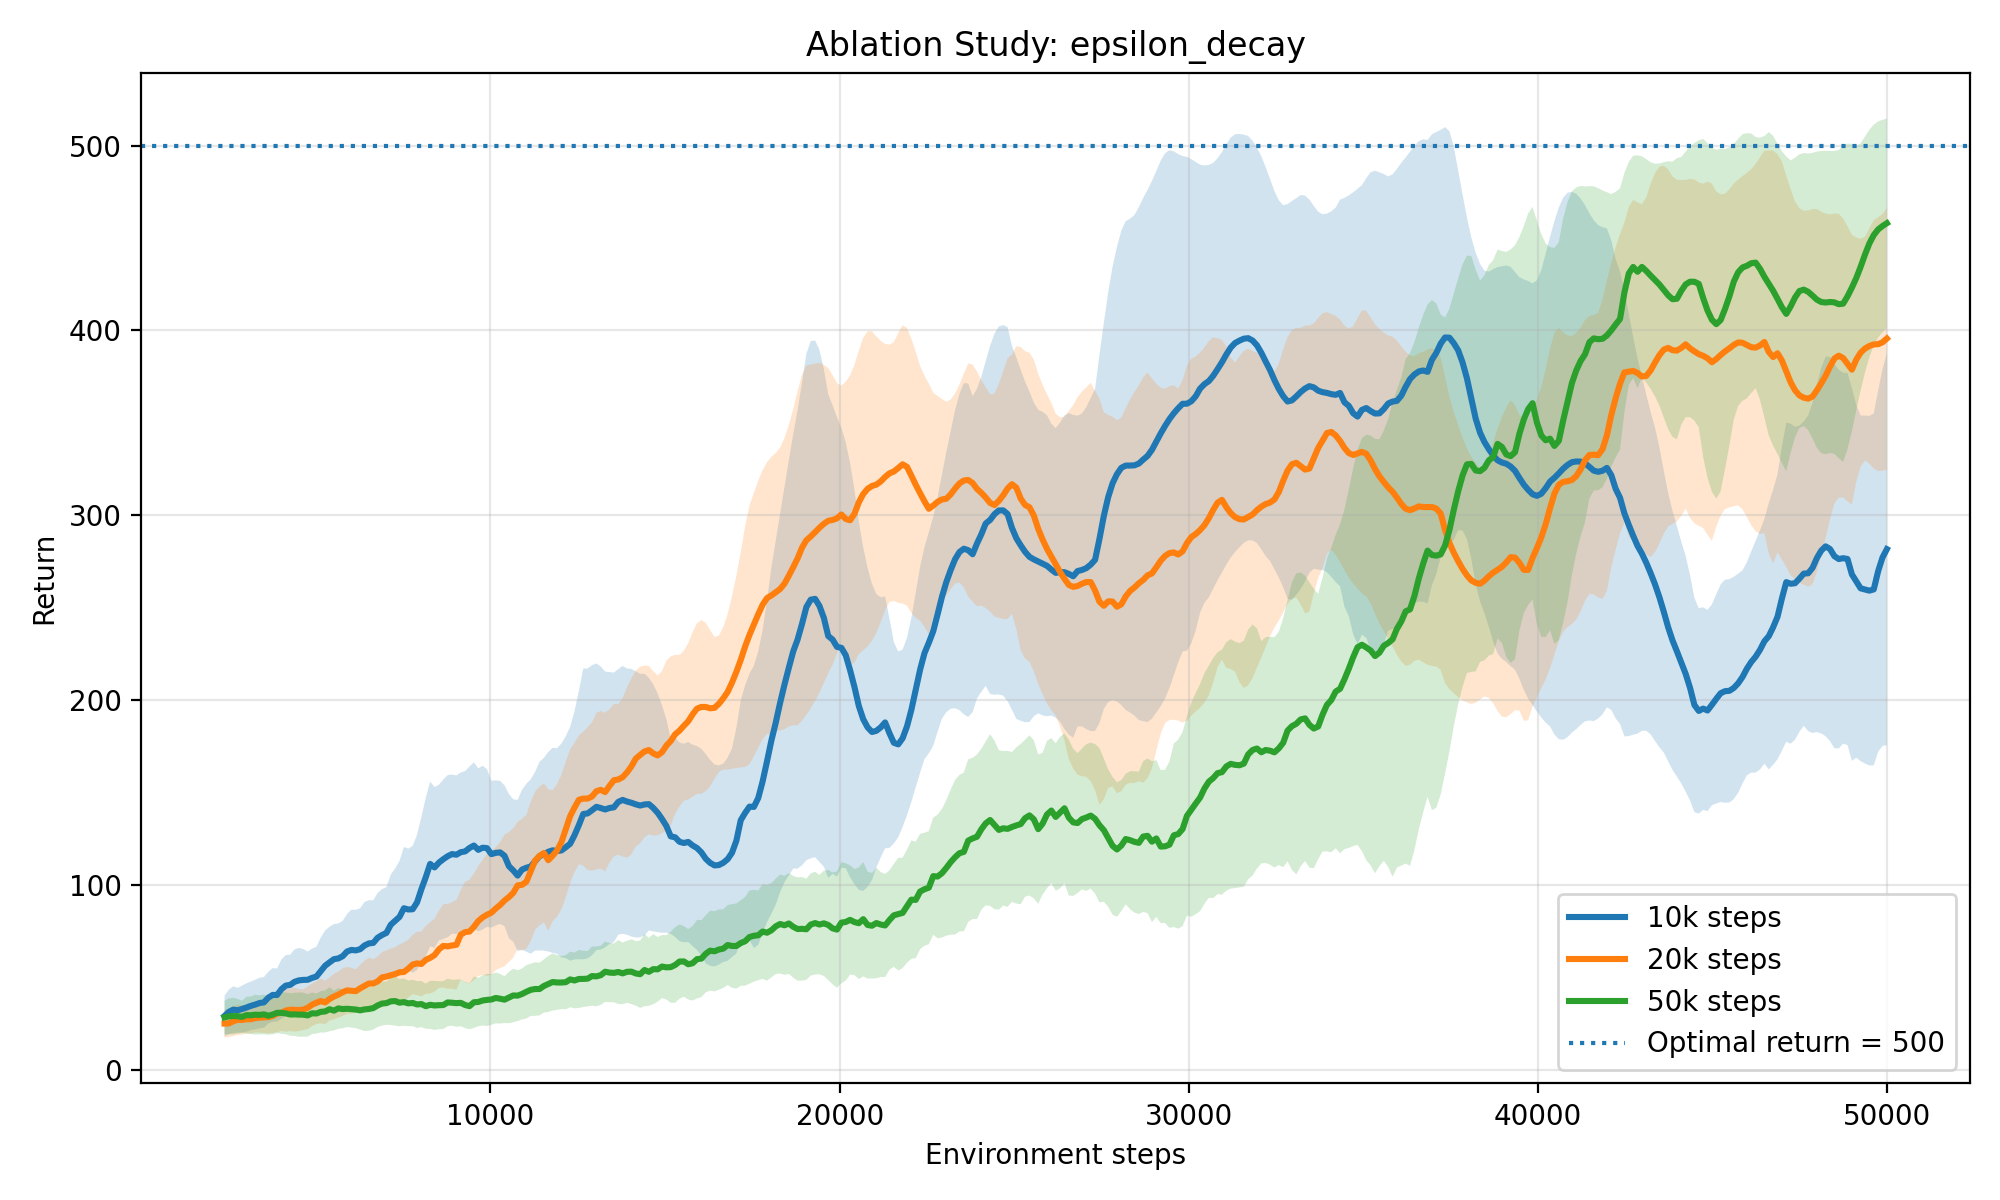
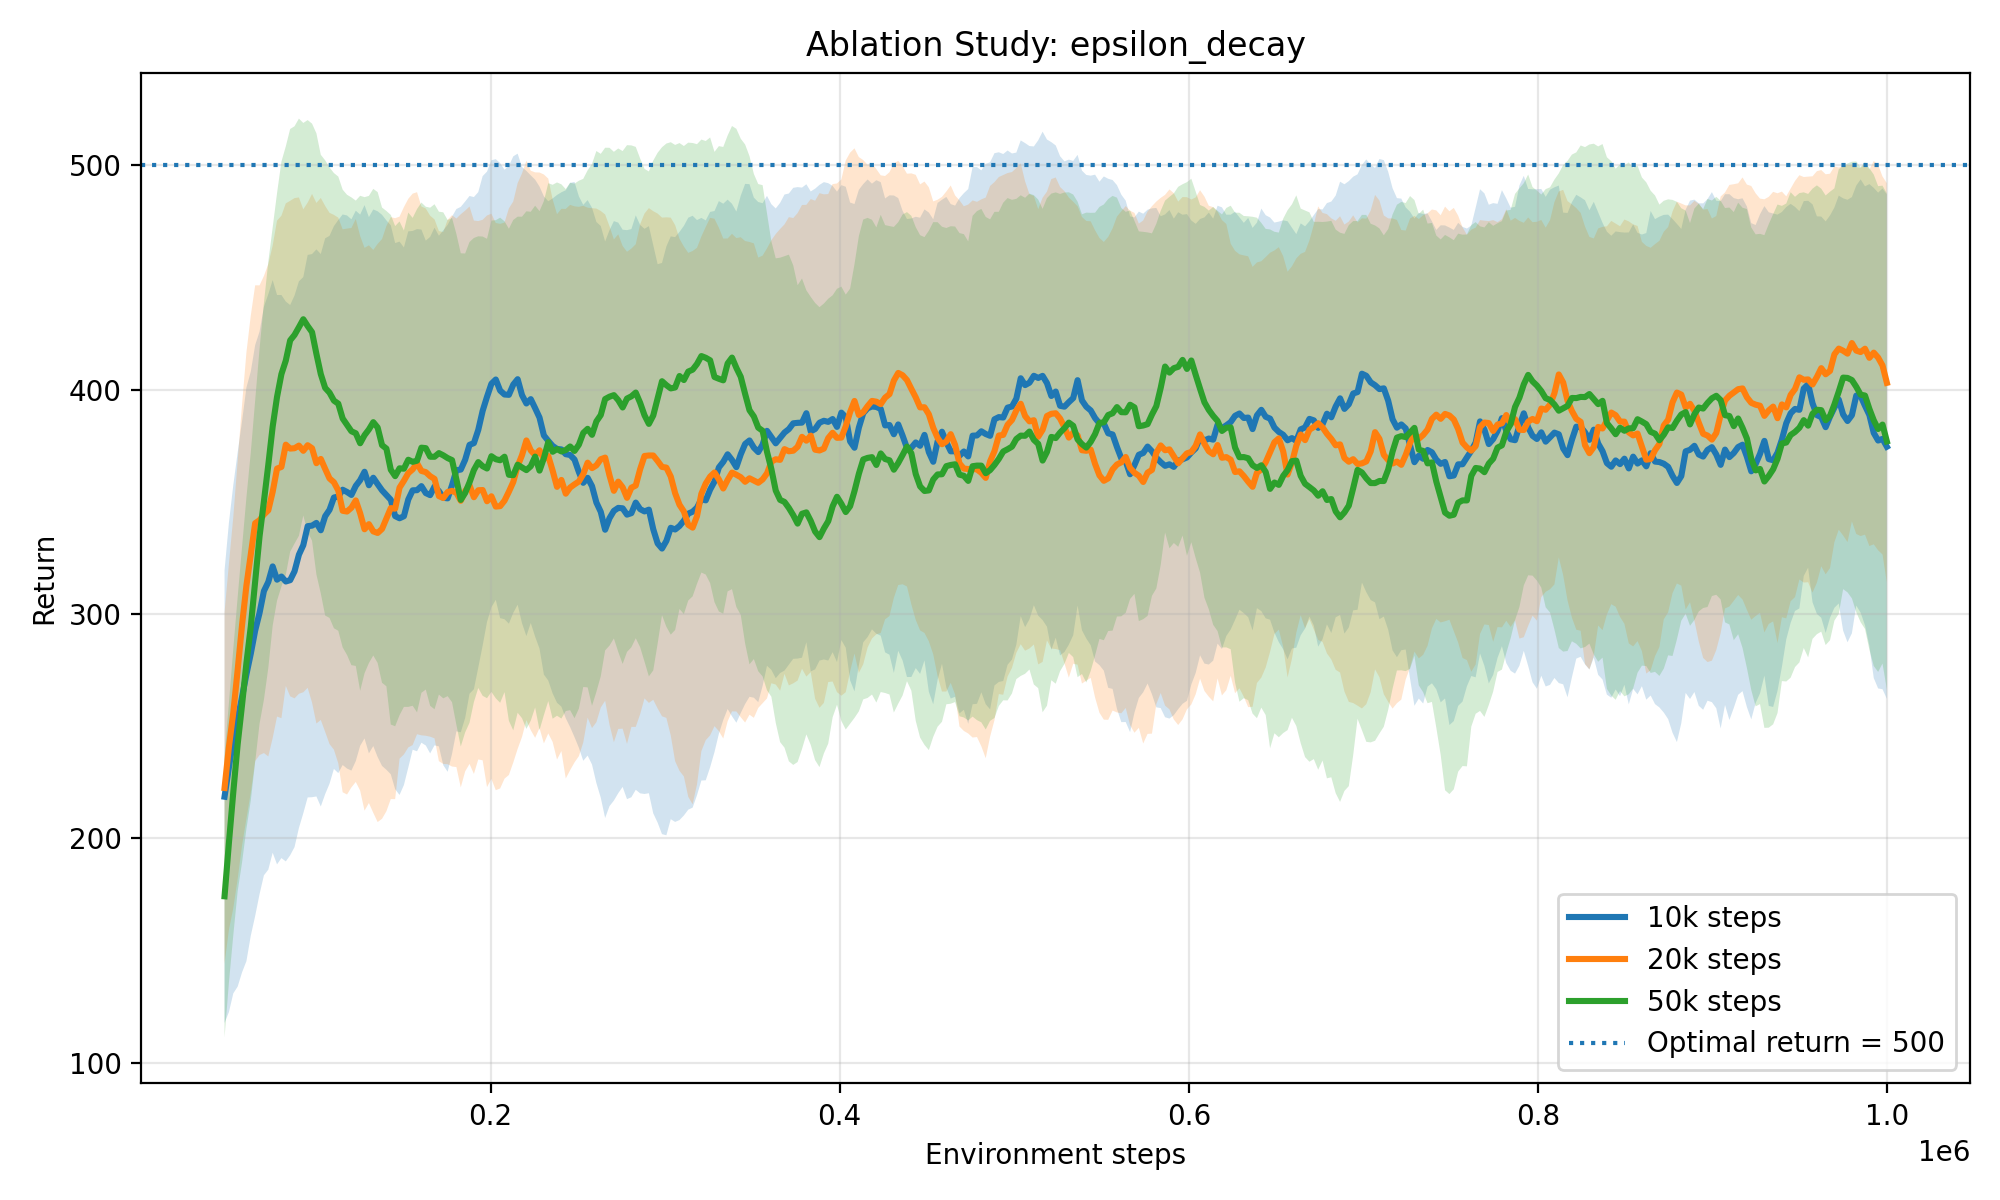
new results

diff --git a/compare_dqn_variants_u.py b/compare_dqn_variants_u.py
@@ -1,0 +1,176 @@
+import copy
+import csv
+import os
+from dataclasses import replace
+
+import matplotlib
+matplotlib.use("Agg")
+import matplotlib.pyplot as plt
+import numpy as np
+import pandas as pd 
+
+from Q_learning_target_replay import Config, train, moving_average
+
+
+def run_multiple_seeds(cfg: Config, num_seeds=5):
+    runs = []
+    for i in range(num_seeds):
+        cfg_i = copy.deepcopy(cfg)
+        cfg_i.seed = cfg.seed + i
+        return_steps, returns, losses = train(cfg_i)
+        runs.append({"return_steps": return_steps, "returns": returns, "losses": losses})
+    return runs
+
+
+def interpolate_runs(runs, total_env_steps, num_points=400):
+    x_grid = np.linspace(1, total_env_steps, num_points)
+    y_interp_runs = []
+    for run in runs:
+        x = run["return_steps"]
+        y = run["returns"]
+        if len(x) == 0:
+            continue
+        y_interp_runs.append(np.interp(x_grid, x, y))
+    if not y_interp_runs:
+        return x_grid, np.zeros_like(x_grid), np.zeros_like(x_grid)
+    y_interp_runs = np.asarray(y_interp_runs)
+    return x_grid, y_interp_runs.mean(axis=0), y_interp_runs.std(axis=0)
+
+
+def plot_variant_comparison(curves, cfg: Config, save_path="results_variants/dqn_variant_comparison.png", smoothing_window=20):
+    os.makedirs(os.path.dirname(save_path) or ".", exist_ok=True)
+    plt.figure(figsize=(10, 6))
+    for label, runs in curves.items():
+        x, mean, std = interpolate_runs(runs, cfg.total_env_steps)
+        if len(mean) >= smoothing_window:
+            mean = moving_average(mean, smoothing_window)
+            std = moving_average(std, smoothing_window)
+            x = x[smoothing_window - 1:]
+        plt.plot(x, mean, linewidth=2.2, label=label)
+        plt.fill_between(x, mean - std, mean + std, alpha=0.2)
+
+    plt.axhline(500, linestyle=":", linewidth=1.5, label="Optimal return = 500")
+    plt.xlabel("Environment steps")
+    plt.ylabel("Return")
+    plt.title("CartPole: Naive vs TN vs ER vs TN + ER")
+    plt.grid(True, alpha=0.3)
+    plt.legend()
+    plt.tight_layout()
+    plt.savefig(save_path, dpi=200)
+    plt.close()
+    print(f"Saved plot to {save_path}")
+
+
+def summarize_runs(runs):
+    final_returns = [run["returns"][-20:].mean() if len(run["returns"]) >= 20 else run["returns"].mean() for run in runs]
+    return float(np.mean(final_returns)), float(np.std(final_returns))
+
+
+def run_variant_study(base_cfg: Config, num_seeds=5, smoothing_window=20, output_dir="results_variants"):
+    os.makedirs(output_dir, exist_ok=True)
+    variants = {
+        "Naive": replace(base_cfg, use_target_network=False, use_replay_buffer=False),
+        "Only TN": replace(base_cfg, use_target_network=True, use_replay_buffer=False),
+        "Only ER": replace(base_cfg, use_target_network=False, use_replay_buffer=True),
+        "TN + ER": replace(base_cfg, use_target_network=True, use_replay_buffer=True),
+    }
+
+    curves = {}
+    summary_rows = []
+    for label, cfg_variant in variants.items():
+        print(f"\n{'=' * 70}\nRunning variant: {label}\n{'=' * 70}")
+        runs = run_multiple_seeds(cfg_variant, num_seeds=num_seeds)
+        curves[label] = runs
+        mean_final, std_final = summarize_runs(runs)
+        print(f"Final-20 mean across seeds: {mean_final:.2f} ± {std_final:.2f}")
+        summary_rows.append({"variant": label, "mean_final_20": mean_final, "std_final_20": std_final})
+
+    plot_variant_comparison(curves, base_cfg, save_path=os.path.join(output_dir, "dqn_variant_comparison.png"), smoothing_window=smoothing_window)
+
+    summary_path = os.path.join(output_dir, "variant_summary.csv")
+    with open(summary_path, "w", newline="") as f:
+        writer = csv.DictWriter(f, fieldnames=["variant", "mean_final_20", "std_final_20"])
+        writer.writeheader()
+        writer.writerows(summary_rows)
+    print(f"Saved variant summary to {summary_path}")
+
+
+def load_best_config_from_ablation(
+    ablation_csv: str = "results_ablation/ablation_summary.csv",
+) -> dict:
+    """
+    Read the ablation summary CSV produced by ablation_study.py and return
+    the best (highest mean_final_20) hyperparameter value for each study.
+    Falls back to sensible defaults if the file is missing.
+    """
+    defaults = {
+        "learning_rate": 1e-3,
+        "hidden_sizes": (128, 128),
+        "epsilon_decay_steps": 50_000,
+        "updates_per_step": 1.0,
+    }
+
+    if not os.path.exists(ablation_csv):
+        print(
+            f"[WARNING] Ablation CSV not found at '{ablation_csv}'. "
+            "Using default hyperparameters. Run ablation_study.py first for best results."
+        )
+        return defaults
+
+    df = pd.read_csv(ablation_csv)
+    best = {}
+
+    study_map = {
+        "learning_rate": ("learning_rate", float),
+        "network_size": ("hidden_sizes", None),   # special handling below
+        "exploration_factor": ("epsilon_decay_steps", int),
+        "update_to_data_ratio": ("updates_per_step", float),
+    }
+
+    for study, (param, cast) in study_map.items():
+        rows = df[df["study"] == study]
+        if rows.empty:
+            best[param] = defaults[param]
+            continue
+        best_row = rows.loc[rows["mean_final_20"].idxmax()]
+        variant_label = best_row["variant"]
+
+        if study == "learning_rate":
+            # label format: "lr = 1e-3"
+            best[param] = float(variant_label.split("=")[1].strip())
+        elif study == "network_size":
+            # label format: "128, 128"
+            sizes = tuple(int(x.strip()) for x in variant_label.split(","))
+            best["hidden_sizes"] = sizes
+        elif study == "exploration_factor":
+            # label format: "epsilon_decay = 50k"
+            token = variant_label.split("=")[1].strip().lower()
+            multiplier = 1_000 if token.endswith("k") else 1
+            best[param] = int(float(token.rstrip("k")) * multiplier)
+        elif study == "update_to_data_ratio":
+            # label format: "1 update/step" or "0.5 updates/step"
+            best[param] = float(variant_label.split()[0])
+
+    print("Loaded best hyperparameters from ablation:")
+    for k, v in best.items():
+        print(f"  {k}: {v}")
+    return best
+
+
+if __name__ == "__main__":
+
+    best = load_best_config_from_ablation("results_ablation/ablation_summary.csv")
+
+    cfg = Config(
+        learning_rate=best["learning_rate"],
+        hidden_sizes=best["hidden_sizes"],
+        epsilon_decay_steps=best["epsilon_decay_steps"],
+        updates_per_step=best["updates_per_step"],
+        total_env_steps=1_000_000,
+        batch_size=64,
+        replay_buffer_size=100_000,
+        min_replay_size=5_000,
+        target_update_freq=1000,
+        log_every_episodes=10_000_000,
+    )
+    run_variant_study(cfg, num_seeds=5, smoothing_window=20, output_dir="results_variants")

diff --git a/ablation_study.py b/ablation_study.py
@@ -86,25 +86,25 @@ def plot_ablation_result(study_name, curves, cfg: Config, save_path: str, smooth
 
 def run_ablation_study(base_cfg: Config, num_seeds=3, smoothing_window=20):
     studies = {
-        "learning_rate": {
-            "lr = 1e-4": replace(base_cfg, learning_rate=1e-4),
-            "lr = 1e-3": replace(base_cfg, learning_rate=1e-3),
-            "lr = 5e-3": replace(base_cfg, learning_rate=5e-3),
-        },
-        "network_architecture": {
-            "64, 64": replace(base_cfg, hidden_sizes=(64, 64)),
-            "128, 128": replace(base_cfg, hidden_sizes=(128, 128)),
-            "256, 256": replace(base_cfg, hidden_sizes=(256, 256)),
-        },
-        "epsilon_decay": {
-            "10k steps": replace(base_cfg, epsilon_decay_steps=10_000),
-            "20k steps": replace(base_cfg, epsilon_decay_steps=20_000),
-            "50k steps": replace(base_cfg, epsilon_decay_steps=50_000),
-        },
+        # "learning_rate": {
+        #     "lr = 1e-4": replace(base_cfg, learning_rate=1e-4),
+        #     "lr = 1e-3": replace(base_cfg, learning_rate=1e-3),
+        #     "lr = 5e-3": replace(base_cfg, learning_rate=5e-3),
+        # },
+        # "network_architecture": {
+        #     "64, 64": replace(base_cfg, hidden_sizes=(64, 64)),
+        #     "128, 128": replace(base_cfg, hidden_sizes=(128, 128)),
+        #     "256, 256": replace(base_cfg, hidden_sizes=(256, 256)),
+        # },
+        # "epsilon_decay": {
+        #     "10k steps": replace(base_cfg, epsilon_decay_steps=10_000),
+        #     "20k steps": replace(base_cfg, epsilon_decay_steps=20_000),
+        #     "50k steps": replace(base_cfg, epsilon_decay_steps=50_000),
+        # },
         "update_to_data_ratio": {
             "0.5 updates/step": replace(base_cfg, updates_per_step=0.5),
             "1 update/step": replace(base_cfg, updates_per_step=1.0),
-            "4 updates/step": replace(base_cfg, updates_per_step=4.0),
+            "2 updates/step": replace(base_cfg, updates_per_step=2.0),
         },
     }
 
@@ -134,5 +134,6 @@ def run_ablation_study(base_cfg: Config, num_seeds=3, smoothing_window=20):
 
 if __name__ == "__main__":
     cfg = Config()
+    cfg.total_env_steps = 1_000_000
     cfg.log_every_episodes = 10_000_000
-    run_ablation_study(cfg, num_seeds=3, smoothing_window=20)
+    run_ablation_study(cfg, num_seeds=5, smoothing_window=20)
